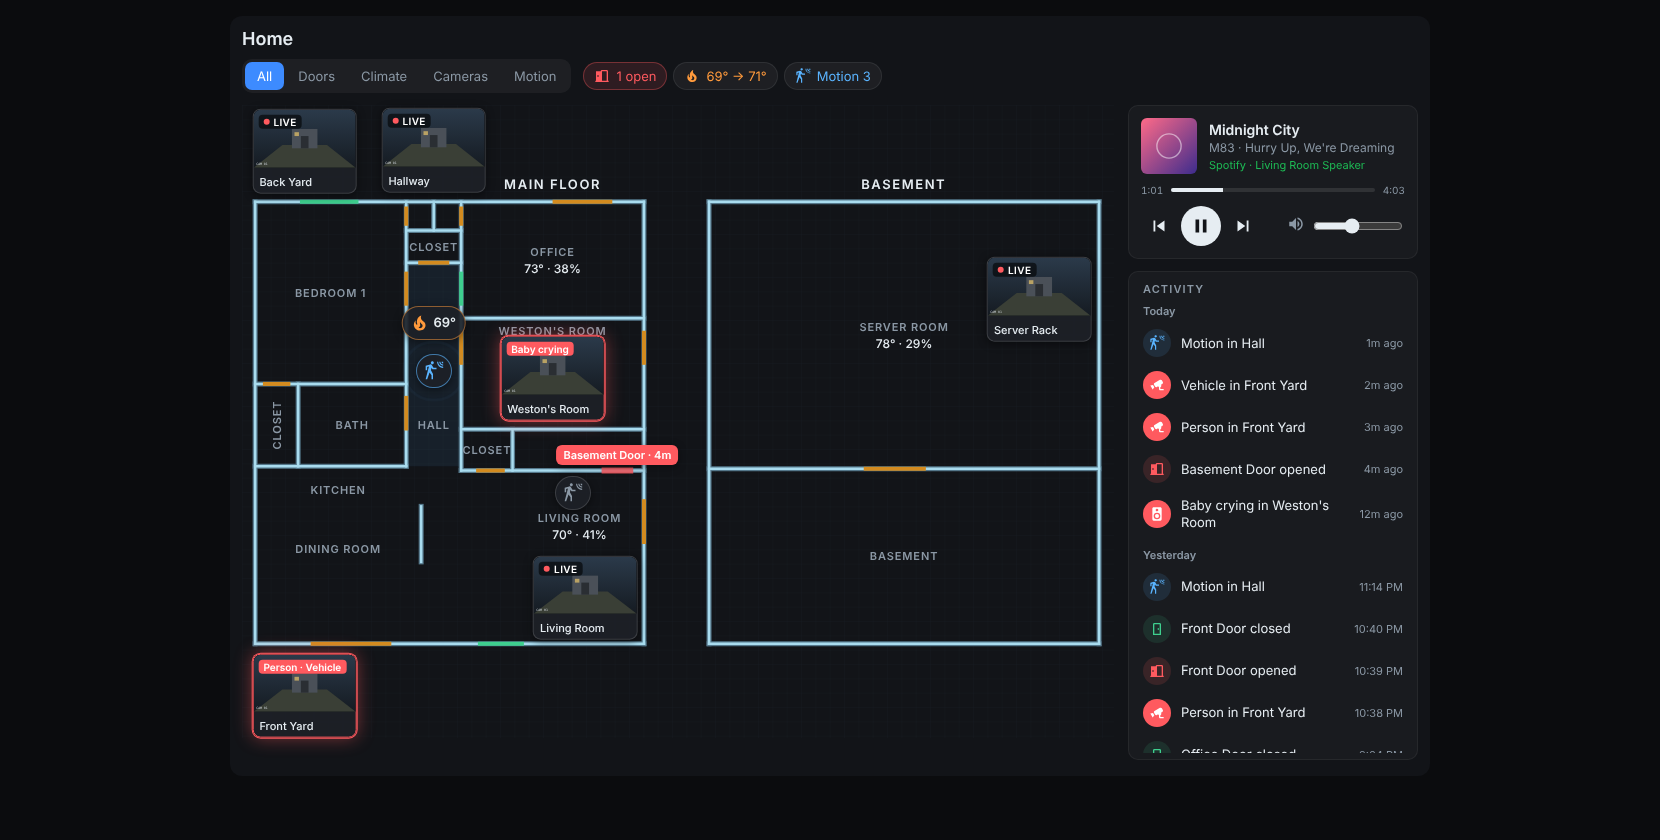
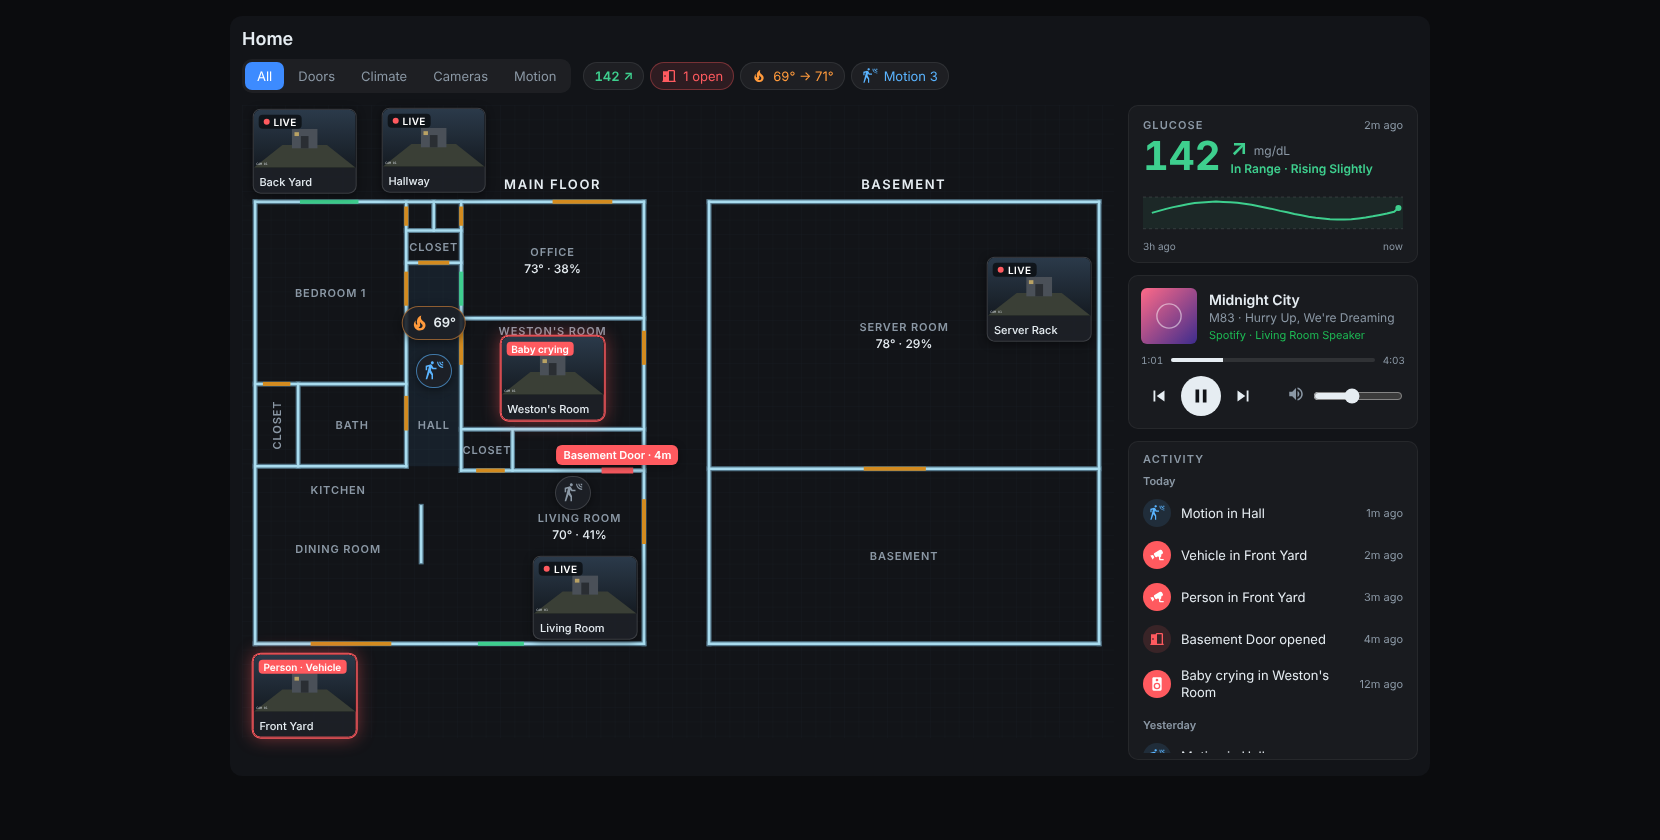
Add Dexcom glucose panel and chip

diff --git a/home-view-card.js b/home-view-card.js
@@ -1,4 +1,4 @@
-const VERSION = "0.5.0";
+const VERSION = "0.6.0";
 
 const ICON = {
   door: "M8,3C6.89,3 6,3.89 6,5V21H18V5C18,3.89 17.11,3 16,3H8M8,5H16V19H8V5M13,11V13H15V11H13Z",
@@ -199,6 +199,36 @@ ha-card {
 .log .when { flex: none; color: var(--hv-muted); font-size: 11px; white-space: nowrap; }
 .log .empty { padding: 8px; color: var(--hv-muted); font-size: 13px; }
 .side { display: flex; flex-direction: column; gap: 12px; min-width: 0; }
+.gl {
+  --gl: var(--hv-closed);
+  padding: 12px 14px 10px; border-radius: 10px; cursor: pointer;
+  border: 1px solid rgba(255,255,255,0.06); background: rgba(255,255,255,0.03);
+}
+.gl.high { --gl: #ffb547; }
+.gl.low, .gl.urgent { --gl: var(--hv-open); border-color: rgba(255,90,95,0.45); background: rgba(255,90,95,0.08); }
+.gl.urgent { animation: glpulse 1.4s ease-in-out infinite; }
+.gl.stale { --gl: var(--hv-muted); }
+.gl-top { display: flex; justify-content: space-between; color: var(--hv-muted); font-size: 11px; }
+.gl-name { font-weight: 600; letter-spacing: 0.1em; text-transform: uppercase; }
+.gl-main { display: flex; align-items: center; gap: 10px; margin: 4px 0 6px; }
+.gl-val { color: var(--gl); font-size: 40px; font-weight: 700; line-height: 1; font-variant-numeric: tabular-nums; }
+.gl-side { display: flex; flex-direction: column; gap: 3px; min-width: 0; }
+.gl-side > span:first-child { display: flex; align-items: baseline; gap: 6px; color: var(--hv-muted); font-size: 12px; }
+.gl-arrow { color: var(--gl); font-size: 22px; font-weight: 700; line-height: 1; }
+.gl-arrow:empty { display: none; }
+.gl-status { color: var(--gl); font-size: 12px; font-weight: 600; text-transform: capitalize; white-space: nowrap; overflow: hidden; text-overflow: ellipsis; }
+.gl-spark { display: block; width: 100%; height: 56px; overflow: visible; }
+.gl-band { fill: rgba(62,207,142,0.08); }
+.gl-lim { stroke: rgba(255,255,255,0.12); stroke-dasharray: 3 3; vector-effect: non-scaling-stroke; }
+.gl-line { fill: none; stroke: var(--gl); stroke-width: 2px; stroke-linejoin: round; vector-effect: non-scaling-stroke; }
+.gl-dot { fill: var(--gl); }
+.gl-axis { display: flex; justify-content: space-between; margin-top: 2px; color: var(--hv-muted); font-size: 10px; }
+.chip.gl-chip { font-weight: 600; font-variant-numeric: tabular-nums; }
+.chip.gl-chip.in { color: var(--hv-closed); }
+.chip.gl-chip.high { color: #ffb547; }
+.chip.gl-chip.low, .chip.gl-chip.urgent { color: #fff; background: var(--hv-open); border-color: var(--hv-open); }
+.chip.gl-chip.stale { color: var(--hv-muted); }
+@keyframes glpulse { 50% { box-shadow: 0 0 0 4px rgba(255,90,95,0.25); } }
 .np {
   display: grid; grid-template-columns: 56px minmax(0, 1fr); gap: 10px 12px; padding: 12px;
   border-radius: 10px; border: 1px solid rgba(255,255,255,0.06); background: rgba(255,255,255,0.03);
@@ -373,6 +403,7 @@ class HomeViewCard extends HTMLElement {
     this._events = [];
     this._seen = new Map();
     this._historyLoaded = false;
+    this._glPoints = null;
     this._config = config.walls || config.rooms ? config : { ...DEFAULT_PLAN, ...config };
     this._built = false;
     if (this._hass) this._build();
@@ -474,7 +505,8 @@ class HomeViewCard extends HTMLElement {
     this._chips = h("div", { class: "chips" });
     this._chips.addEventListener("click", (e) => {
       const chip = e.target.closest(".chip");
-      if (chip) this._setLayer(chip.dataset.layer);
+      if (chip?.dataset.entity) this._moreInfo(chip.dataset.entity);
+      else if (chip) this._setLayer(chip.dataset.layer);
     });
     if (cfg.title) card.append(head);
 
@@ -564,6 +596,8 @@ class HomeViewCard extends HTMLElement {
     const side = h("div", { class: "side" });
     this._watch = this._watchList();
     this._log = null;
+    this._glucose = cfg.glucose ? this._buildGlucose() : null;
+    if (this._glucose) side.append(this._glucose.el);
     this._media = cfg.media ? this._buildMedia(cfg.media) : null;
     if (this._media) side.append(this._media.el);
     if (cfg.log !== false && this._watch.size) {
@@ -580,6 +614,150 @@ class HomeViewCard extends HTMLElement {
       this._renderTabs();
       this._update();
       this._refreshCameras();
+    }
+  }
+
+  _glucoseCfg() {
+    const g = this._config.glucose;
+    if (!g) return null;
+    const c = typeof g === "string" ? { entity: g } : { ...g };
+    if (!c.trend) {
+      const guess = c.entity.replace(/_value$/, "_trend");
+      if (guess !== c.entity) c.trend = guess;
+    }
+    return c;
+  }
+
+  _glucoseInfo() {
+    const c = this._glucoseCfg();
+    const st = c && this._hass?.states[c.entity];
+    if (!st) return null;
+    const unit = st.attributes.unit_of_measurement || "mg/dL";
+    const mmol = /mmol/i.test(unit);
+    const low = c.low ?? (mmol ? 3.9 : 70);
+    const high = c.high ?? (mmol ? 10 : 180);
+    const urgent = c.urgent_low ?? (mmol ? 3.1 : 55);
+    const v = parseFloat(st.state);
+    const seen = Date.parse(st.last_reported || st.last_updated || st.last_changed);
+    const stale = Number.isNaN(v) || Date.now() - seen > (c.stale_minutes ?? 15) * 60000;
+    const trendState = this._hass.states[c.trend]?.state || "";
+    const ARROWS = {
+      rising_quickly: "⇈", rising: "↑", rising_slightly: "↗", steady: "→",
+      falling_slightly: "↘", falling: "↓", falling_quickly: "⇊",
+    };
+    let range = "in";
+    let label = "In range";
+    if (stale) {
+      range = "stale";
+      label = "No recent data";
+    } else if (v <= urgent) {
+      range = "urgent";
+      label = "Urgent low";
+    } else if (v < low) {
+      range = "low";
+      label = "Low";
+    } else if (v > high) {
+      range = "high";
+      label = "High";
+    }
+    return {
+      entity: c.entity, name: c.name || "Glucose", unit, mmol, low, high, value: v, seen, stale, range, label,
+      text: Number.isNaN(v) ? "--" : mmol ? v.toFixed(1) : String(Math.round(v)),
+      arrow: stale ? "" : ARROWS[trendState] || "",
+      trend: trendState.replace(/_/g, " "),
+    };
+  }
+
+  _buildGlucose() {
+    const name = h("span", { class: "gl-name" });
+    const age = h("span", { class: "gl-age" });
+    const val = h("span", { class: "gl-val" });
+    const unit = h("span", { class: "gl-unit" });
+    const arrow = h("span", { class: "gl-arrow" });
+    const status = h("span", { class: "gl-status" });
+    const spark = s("svg", { class: "gl-spark", viewBox: "0 0 300 64", preserveAspectRatio: "none" });
+    const band = s("rect", { class: "gl-band", x: 0, width: 300 });
+    const lineLow = s("line", { class: "gl-lim", x1: 0, x2: 300 });
+    const lineHigh = s("line", { class: "gl-lim", x1: 0, x2: 300 });
+    const path = s("polyline", { class: "gl-line" });
+    const dot = s("circle", { class: "gl-dot", r: 3.5 });
+    spark.append(band, lineLow, lineHigh, path, dot);
+    const hours = this._glucoseCfg().hours || 3;
+    const el = h("section", { class: "gl" },
+      h("div", { class: "gl-top" }, name, age),
+      h("div", { class: "gl-main" }, val, h("span", { class: "gl-side" }, h("span", {}, arrow, unit), status)),
+      spark,
+      h("div", { class: "gl-axis" }, h("span", {}, `${hours}h ago`), h("span", {}, "now")));
+    el.addEventListener("click", () => this._moreInfo(this._glucoseCfg().entity));
+    return { el, name, age, val, unit, arrow, status, band, lineLow, lineHigh, path, dot, hours };
+  }
+
+  async _loadGlucoseHistory() {
+    const c = this._glucoseCfg();
+    const g = this._glucose;
+    if (!this._hass.callApi) return;
+    const start = new Date(Date.now() - g.hours * 3600000).toISOString();
+    try {
+      const data = await this._hass.callApi("GET", `history/period/${start}?filter_entity_id=${c.entity}&minimal_response&no_attributes`);
+      const pts = (data?.[0] || [])
+        .map((x) => [Date.parse(x.last_changed), parseFloat(x.state)])
+        .filter(([, v]) => !Number.isNaN(v));
+      this._glPoints = [...pts, ...(this._glPoints || [])].sort((a, b) => a[0] - b[0]);
+      this._renderGlucose();
+    } catch (err) {
+      console.warn("home-view-card: could not load glucose history", err);
+    }
+  }
+
+  _renderGlucose() {
+    const g = this._glucose;
+    if (!g) return;
+    const info = this._glucoseInfo();
+    if (!info) {
+      g.el.className = "gl stale";
+      g.name.textContent = "Glucose";
+      g.val.textContent = "--";
+      g.status.textContent = `${this._glucoseCfg().entity} not found`;
+      return;
+    }
+    if (this._glPoints === null) {
+      this._glPoints = [];
+      this._loadGlucoseHistory();
+    }
+    const st = this._hass.states[info.entity];
+    const lc = Date.parse(st.last_changed);
+    const last = this._glPoints[this._glPoints.length - 1];
+    if (!Number.isNaN(info.value) && (!last || last[0] < lc)) this._glPoints.push([lc, info.value]);
+
+    g.el.className = `gl ${info.range}`;
+    g.name.textContent = info.name;
+    const mins = Math.floor((Date.now() - info.seen) / 60000);
+    g.age.textContent = mins < 1 ? "just now" : mins < 60 ? `${mins}m ago` : `${Math.floor(mins / 60)}h ago`;
+    g.val.textContent = info.text;
+    g.unit.textContent = info.unit;
+    g.arrow.textContent = info.arrow;
+    g.status.textContent = info.trend && !info.stale ? `${info.label} · ${info.trend}` : info.label;
+
+    const now = Date.now();
+    const from = now - g.hours * 3600000;
+    const pts = this._glPoints.filter(([t]) => t >= from);
+    const vals = pts.map(([, v]) => v);
+    const lo = Math.min(info.low - (info.mmol ? 1 : 20), ...vals);
+    const hi = Math.max(info.high + (info.mmol ? 2 : 40), ...vals);
+    const y = (v) => 60 - ((v - lo) / (hi - lo)) * 56;
+    const x = (t) => ((t - from) / (now - from)) * 296 + 2;
+    g.band.setAttribute("y", y(info.high));
+    g.band.setAttribute("height", Math.max(0, y(info.low) - y(info.high)));
+    for (const [line, v] of [[g.lineLow, info.low], [g.lineHigh, info.high]]) {
+      line.setAttribute("y1", y(v));
+      line.setAttribute("y2", y(v));
+    }
+    g.path.setAttribute("points", pts.map(([t, v]) => `${x(t).toFixed(1)},${y(v).toFixed(1)}`).join(" "));
+    const end = pts[pts.length - 1];
+    g.dot.style.display = end ? "" : "none";
+    if (end) {
+      g.dot.setAttribute("cx", x(end[0]));
+      g.dot.setAttribute("cy", y(end[1]));
     }
   }
 
@@ -1000,6 +1178,7 @@ class HomeViewCard extends HTMLElement {
     this._trackEvents();
     this._renderLog();
     this._renderMedia();
+    this._renderGlucose();
     if (!this._tabs.childElementCount) this._renderTabs();
     this._applyLayer();
   }
@@ -1117,6 +1296,12 @@ class HomeViewCard extends HTMLElement {
       return el;
     };
     const out = [];
+    const gl = this._glucoseInfo();
+    if (gl) {
+      const el = h("button", { class: `chip gl-chip ${gl.range}`, "data-entity": gl.entity, title: `${gl.name}: ${gl.text}` });
+      el.append(`${gl.text} ${gl.arrow}`.trim());
+      out.push(el);
+    }
     if (watched) {
       out.push(
         openNames.length

diff --git a/demo/index.html b/demo/index.html
@@ -58,6 +58,8 @@ const states = {
   "binary_sensor.rack_01_rear_motion": st("off", { device_class: "motion" }),
   "sensor.temp_serverrack_humidity": st("29", { device_class: "humidity", unit_of_measurement: "%" }),
   "media_player.spotify": { state: "playing", last_changed: ago(3), attributes: { friendly_name: "Spotify", source: "Living Room Speaker", media_title: "Midnight City", media_artist: "M83", media_album_name: "Hurry Up, We're Dreaming", entity_picture: "album.svg", media_duration: 243, media_position: 61, media_position_updated_at: new Date().toISOString(), volume_level: 0.42 } },
+  "sensor.dexcom_glucose_value": { state: "142", last_changed: ago(2), last_updated: ago(2), attributes: { unit_of_measurement: "mg/dL", friendly_name: "Glucose" } },
+  "sensor.dexcom_glucose_trend": st("rising_slightly"),
   "sensor.temp_livingrm_temperature": st("70.2", { device_class: "temperature", unit_of_measurement: "°F" }),
   "sensor.temp_livingrm_humidity": st("41", { device_class: "humidity", unit_of_measurement: "%" }),
 };
@@ -69,6 +71,7 @@ async function callApi(method, path) {
   const ids = decodeURIComponent(path.split("filter_entity_id=")[1].split("&")[0]).split(",");
   const at = (min) => new Date(Date.now() - min * 60000).toISOString();
   const script = {
+    "sensor.dexcom_glucose_value": [[180, "118"], [175, "125"], [170, "132"], [165, "139"], [160, "145"], [155, "150"], [150, "155"], [145, "159"], [140, "161"], [135, "163"], [130, "164"], [125, "163"], [120, "162"], [115, "160"], [110, "157"], [105, "153"], [100, "148"], [95, "143"], [90, "138"], [85, "132"], [80, "127"], [75, "121"], [70, "117"], [65, "112"], [60, "108"], [55, "106"], [50, "103"], [45, "102"], [40, "102"], [35, "103"], [30, "106"], [25, "109"], [20, "113"], [15, "118"], [10, "123"], [5, "129"]],
     "binary_sensor.door_front_contact": [[300, "on"], [298, "off"], [95, "on"], [94, "off"]],
     "binary_sensor.door_office_contact": [[200, "on"], [190, "off"]],
     "binary_sensor.door_basement_contact": [[4, "on"]],

diff --git a/README.md b/README.md
@@ -56,6 +56,7 @@ Everything is drawn in one coordinate space that you pick. The example uses the 
 | `layers` | `true` | Filter tabs |
 | `grid` | `true` | Blueprint grid behind the plan |
 | `camera_refresh` | `10` | Seconds between camera preview refreshes |
+| `glucose` | | A CGM reading (e.g. Dexcom). Either the value sensor, or `{entity, trend, low, high, urgent_low, hours, stale_minutes}`. Shows the number, trend arrow, a range-colored status and a graph of the last few hours, plus a chip next to the tabs. |
 | `media` | | A `media_player` (e.g. Spotify) to show as a Now Playing panel with art, progress, previous/play/next and volume |
 | `log` | `true` | Activity feed of door, motion and camera events. Sits to the right of the plan on wide screens and below it on narrow ones. |
 | `log_title` | `Activity` | Heading for the feed |
